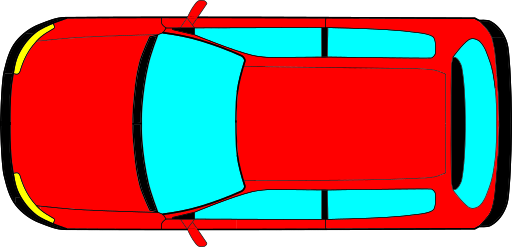
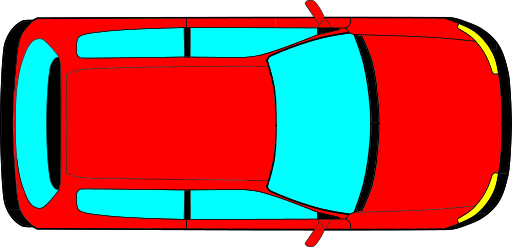
Changed phaser arcade physic engine to own physic engine

diff --git a/index.js b/index.js
@@ -2,12 +2,12 @@ const config = {
     type: Phaser.AUTO,
     width: 800,
     height: 600,
-    physics: {
-      default: 'arcade',
-      arcade: {
-        debug: false
-      }
-    },
+    //physics: {
+    //  default: 'arcade',
+    //  arcade: {
+    //    debug: false
+    //  }
+    //},
     scene: {
       preload: preload,
       create: create,
@@ -22,31 +22,45 @@ function preload() {
     this.load.image('track', 'assets/nur.png');
 }
 
+let player;
 let car;
-let cursors;
-
 let keyA;
 let keyS;
 let keyD;
 let keyW;
 
-let acceleration = 50;
-let brakeForce = 100;
-let velocity = 0;
-let xVelocity = 0;
-let yVelocity = 0;
-let maxSpeed = 300;
-let maxRSpeed = 50;
-let turnSpeed = 300;
-let maxTurningAngle = 30.0;
-let currentTurningAngle = 0.0;
-let dTurningAngle = 0.5;
-
 function create() {
     let track = this.add.image(0, 0, 'track');
-    car = this.physics.add.sprite(400, 300, 'car');
-    car.setScale(0.2);
-    car.setDrag(100);
+    //car = this.add.sprite(400, 300, 'car');
+    //car.setScale(0.2);
+
+    honda = {
+        acceleration: 200,
+        brakeForce: 100,
+        maxSpeed: 300,
+        maxRSpeed: 50,
+        turnSpeed: 300,
+        maxTurningAngle: 30.0,
+        currentTurningAngle: 0.0,
+        dTurningAngle: 0.5,
+        axleBase: 2.5
+    }
+
+    player = {
+        sprite: this.add.sprite(400, 300, 'car'),
+        car: null,
+        xpos: 0,
+        ypos: 0,
+        xAcc: 0,
+        yAcc: 0,
+        xVelocity: 0,
+        yVelocity: 0,
+        speed: 0,
+        rotation: 0
+    }
+
+    player.sprite.setScale(0.2);
+    player.car = honda;
 
     keyA = this.input.keyboard.addKey(Phaser.Input.Keyboard.KeyCodes.A);
     keyS = this.input.keyboard.addKey(Phaser.Input.Keyboard.KeyCodes.S);
@@ -57,7 +71,15 @@ function create() {
 
 }
 
-function update() {
+function update(time, delta) {
+    const dt = delta / 1000;
+
+    player.xpos = player.xpos + player.xVelocity*dt;
+    player.ypos = player.ypos + player.yVelocity*dt;
+    player.sprite.x = player.xpos;
+    player.sprite.y = player.ypos;
+    player.speed = Math.sqrt((player.xVelocity*player.xVelocity) + (player.yVelocity*player.yVelocity));
+    
     let gasPedal = false;
     let brakePedal = false;
     let turnLeft = false;
@@ -90,8 +112,9 @@ function update() {
     }
 
     if(gasPedal) {
-        accelerate();
+        accelerate(player, dt);
     }
+    /*
     else if(brakePedal) {
         slowDown();
     }
@@ -99,13 +122,10 @@ function update() {
         drag();
     }
     
-    turning(turnLeft, turnRight);
+    //turning(turnLeft, turnRight);
 
+    //carRotation(car.body.speed, currentTurningAngle, axleBase);
 
-
-
-
-/*
     if (isMoving) {
         if (keyA.isDown && car.body.speed > 0) {
             car.setAngularVelocity(-turnSpeed); // Skręcanie w lewo
@@ -117,19 +137,28 @@ function update() {
     } else {
         car.setAngularVelocity(0); // Zatrzymaj skręcanie, gdy samochód jest zatrzymany
     }
-*/
+    */
+   //console.log(player.xpos);
 }
 
-function accelerate() {
-    if(car.body.speed < maxSpeed) {
-        car.setAcceleration(acceleration * Math.cos(car.rotation), acceleration * Math.sin(car.rotation));
-    }
-    else {
-        car.setAcceleration(0, 0);
-        car.setVelocity = maxSpeed;
-    }
+function accelerate(player, dt) {
+    player.xVelocity += player.car.acceleration * Math.cos(player.rotation) * dt;
+    player.yVelocity += player.car.acceleration * Math.sin(player.rotation) * dt; 
+    
+    //if(car.body.speed < maxSpeed) {
+        //let accelerationAngle = car.rotation - (Math.PI*currentTurningAngle / 180);
+        //car.setAcceleration(acceleration * Math.cos(car.rotation), acceleration * Math.sin(car.rotation));
+        //car.setAcceleration(acceleration * Math.cos(accelerationAngle), acceleration * Math.sin(accelerationAngle));
+        //car.setVelocity(
+        //    car.body.velocity.x + (acceleration*Math.cos(car.rotation)), 
+        //    car.body.velocity.y + (acceleration*Math.sin(car.rotation))
+    //    );
+    //}
+    //else {
+    //    car.setVelocity = car.body.velocity;
+    //}
 }
-
+/*
 function slowDown() {
     if(car.body.speed > 0) {
         car.setAcceleration(-brakeForce * Math.cos(car.rotation), -brakeForce * Math.sin(car.rotation));
@@ -171,15 +200,15 @@ function turning(turnLeft, turnRight) {
             currentTurningAngle = 0;
         }
     }
-    console.log(currentTurningAngle);
+    console.log(car.body.velocity);
 }
 
-function limitSpeed() {
-    if (car.body.speed > maxSpeed) {
-        car.setVelocity(maxSpeed * Math.cos(car.rotation), maxSpeed * Math.sin(car.rotation));
-    }
+function carRotation(carSpeed, turningAngle, axleBase) {
+    let dAngularVelocity = carSpeed * Math.tan(turningAngle*Math.PI / 180) / axleBase;
+    car.setAngularVelocity(-dAngularVelocity);
 }
 
 function updateCar() {
     let a = 0;
 }
+    */
